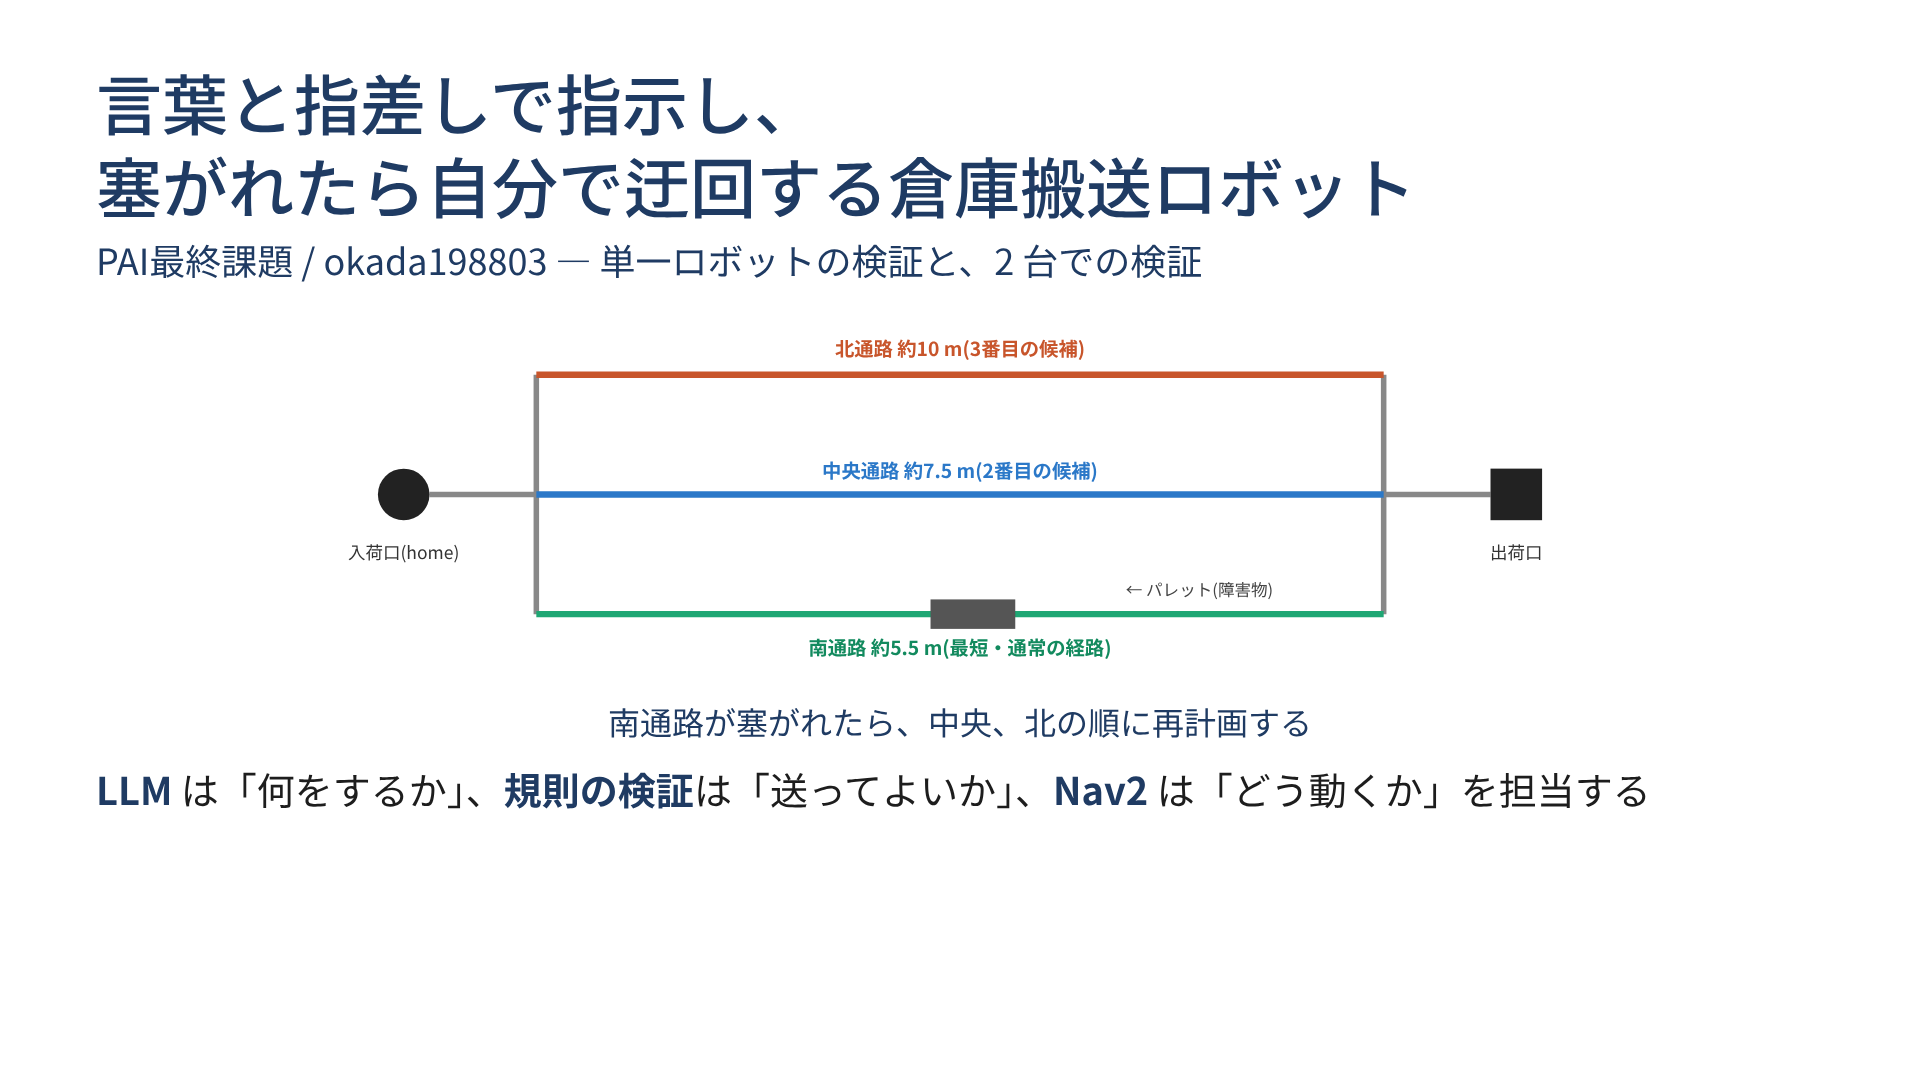
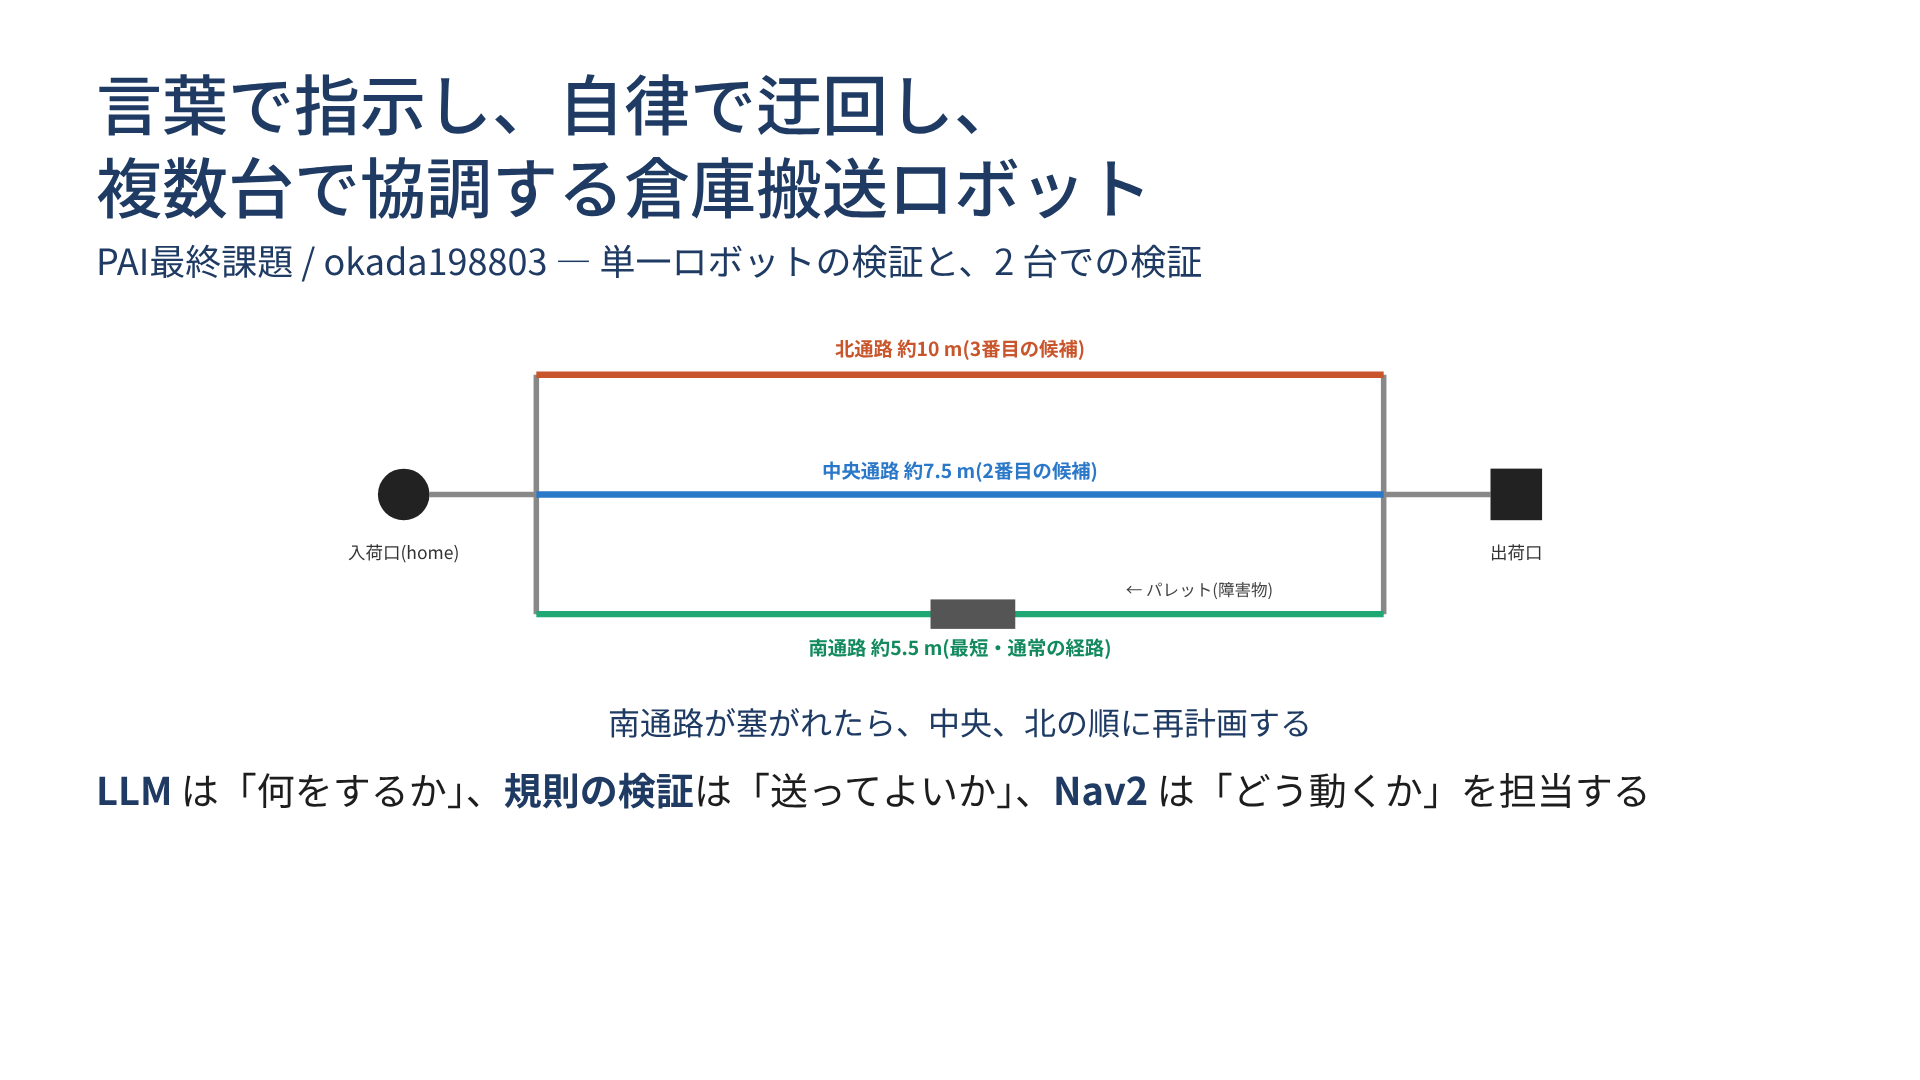
題名を「言葉で指示し、自律で迂回し、複数台で協調する倉庫搬送ロボット」に変更
Claude-Session: https://claude.ai/code/session_01XXRvrW4CqHyFHBMq6pLjo3

Changed region(s): [[0.0312, 0.0611, 0.75, 0.2139], [0.125, 0.0611, 0.1562, 0.1222]]

diff --git a/README.md b/README.md
@@ -1,4 +1,4 @@
-# 言葉で指示し、塞がれたら自分で迂回する倉庫ロボット(PAI 最終課題)
+# 言葉で指示し、自律で迂回し、複数台で協調する倉庫搬送ロボット(PAI 最終課題)
 
 Gazebo 上の差動二輪ロボット(LiDAR 搭載)に **日本語で搬送を指示** する。
 通路が障害物で塞がれていて進めなくなると、**ロボットが状況を報告し、LLM が別の通路を経由する計画に作り直して** 目的地へ向かう。
